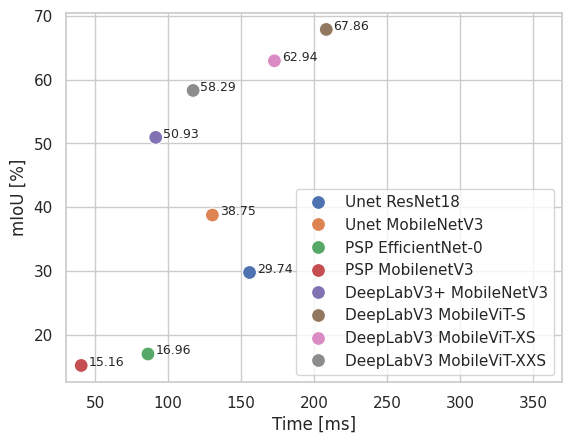
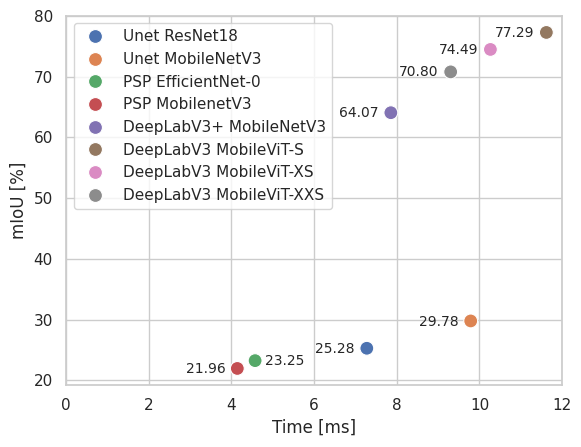
last test

diff --git a/src/scripts/validation.py b/src/scripts/validation.py
@@ -58,7 +58,7 @@ def validate_smp() -> dict:
         model.eval()
 
         _, val_dl = get_voc_dataloader(
-            batch_size=16,
+            batch_size=1,
             num_workers=4,
         )
         print(f"Validating {arch} with {backbone} backbone")
@@ -80,7 +80,7 @@ def validate_hf() -> dict:
         model.eval()
 
         _, val_dl = get_voc_dataloader(
-            batch_size=16,
+            batch_size=1,
             num_workers=4,
         )
         print(f"Validating {arch} with {backbone} backbone")
